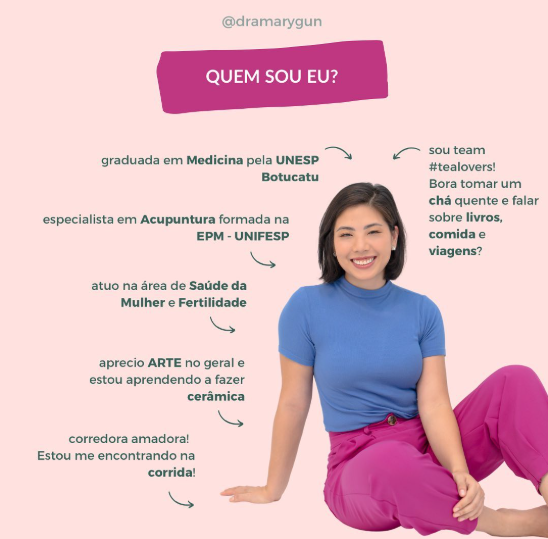
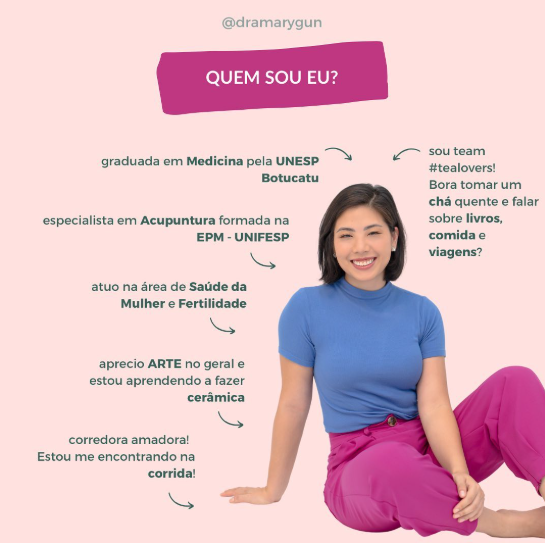
correcao erro renderizacao img

diff --git a/index.html b/index.html
@@ -201,7 +201,7 @@
     <div class="container">
       <div class="row align-items-center">
         <div class="col-md-6 text-center">
-          <img src="/assets/img/quemsou.png" alt="Dra Mary Gun" class="img-fluid rounded-4">
+          <img src="assets/img/quemsou.png" alt="Foto da Dra Mary Gun> Ela possui cabelos curtos, traços orientais. Pele clara e está vestindo uma blusa azul e uma calça rosa. Com um sorriso agradável no rosto. Na foto possui algumas descrições que a definem, como amante de chás, praticante de cerâmica e corredora amadora." class="img-fluid rounded-4">
         </div>
         <div class="col-md-6 mt-5">
           <h2 class="m-3">Acupuntura na Saúde da Mulher e Fertilidade</h2>
